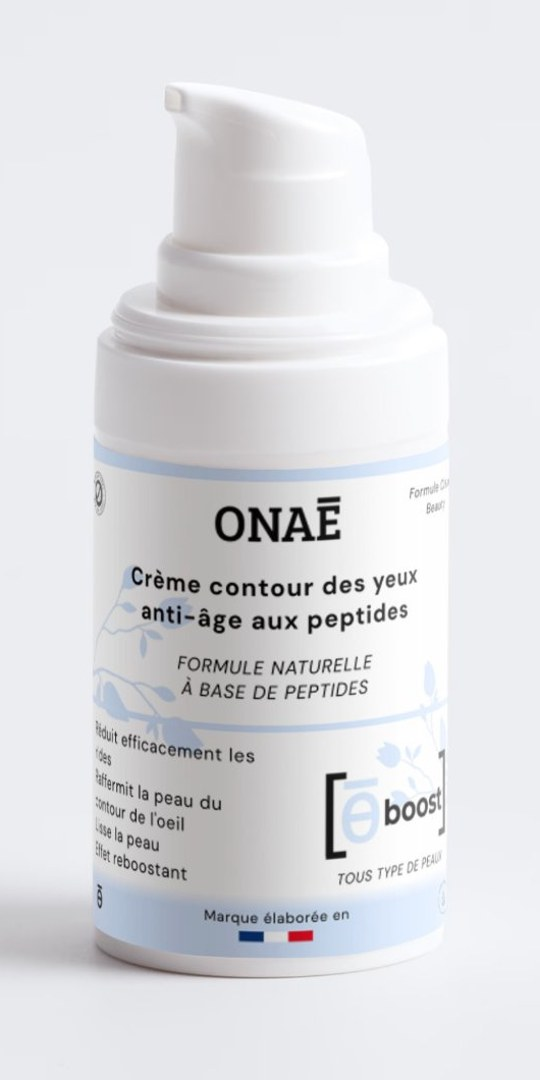
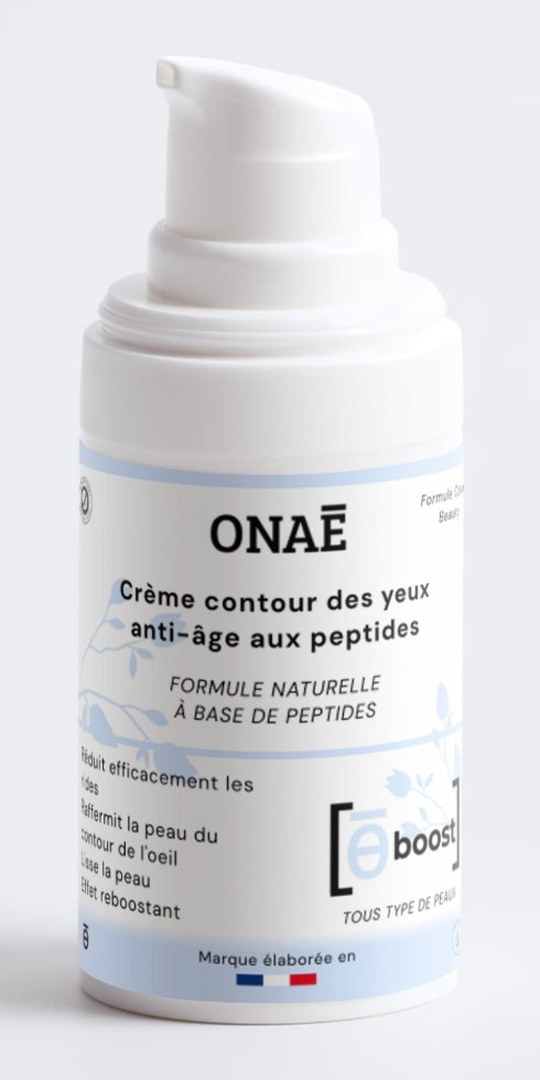
soins-yeux : flacon 3D refait d'après l'étiquette officielle
Étiquette reconstruite en vectoriel (texte net, droite), texture 4096 px,
pompe airless remodelée d'après la photo studio (bague striée, col, bec).

Claude-Session: https://claude.ai/code/session_014dCkmD5gAGJhmCfmpnVsfL

Changed region(s): [[0.0, 0.2444, 0.8593, 0.9472], [0.2667, 0.0611, 0.5333, 0.3361], [0.3852, 0.2139, 0.5333, 0.2444]]

diff --git a/pump3d.js b/pump3d.js
@@ -20,8 +20,10 @@ function initPump3D(canvas){
   const BODY_H = AIRLESS ? 3.68 : 3.236, BASE_H = 0.318;
   // airless : épaulement arrondi -> bague -> poussoir (mesures prises sur la photo, rayon du corps = 1)
   const SH_H = 0.26, COL_R = 0.667, COL_H = 0.253;
-  const COLLAR_Y0 = BODY_H, COLLAR_Y1 = AIRLESS ? BODY_H + SH_H + COL_H : 4.509, COLLAR_R0 = 0.647, COLLAR_R1 = 0.570;
-  const ACT_R = AIRLESS ? 0.575 : 0.50;
+  // airless (photo studio, rayon du corps = 1) : bague striée 0.06, col 0.30 (r 0.648), poussoir r 0.56 haut de 0.58 à 0.88
+  const NECK_R = 0.648, NECK_Y0 = BODY_H + 0.06, NECK_Y1 = BODY_H + 0.36;
+  const COLLAR_Y0 = BODY_H, COLLAR_Y1 = AIRLESS ? NECK_Y1 : 4.509, COLLAR_R0 = 0.647, COLLAR_R1 = 0.570;
+  const ACT_R = AIRLESS ? 0.56 : 0.50;
   const CENTER_Y = 2.5;
 
   const scene = new THREE.Scene();
@@ -126,8 +128,12 @@ function initPump3D(canvas){
     const lathe = (pts)=> new THREE.Mesh(new THREE.LatheGeometry(pts.map(([r,y])=> new THREE.Vector2(r, y)), SEG), whiteMat);
     bottle.add(lathe([[0.001,-0.07],[0.86,-0.07],[0.94,-0.06],[0.98,-0.04],[0.997,-0.015],[1,0]]));
     const Y = BODY_H;
-    bottle.add(lathe([[1,Y],[0.985,Y+0.012],[0.93,Y+0.016],[0.914,Y+0.03],[0.912,Y+0.06],[0.90,Y+0.11],[0.87,Y+0.16],[0.81,Y+0.21],[0.74,Y+0.24],[0.69,Y+0.255],[COL_R,Y+SH_H]]));
-    bottle.add(lathe([[COL_R,Y+SH_H],[COL_R,Y+SH_H+COL_H-0.02],[COL_R-0.015,Y+SH_H+COL_H],[ACT_R+0.01,Y+SH_H+COL_H],[ACT_R,Y+SH_H+COL_H+0.005]]));
+    // bord du corps arrondi, plateau, bague à deux stries, plateau intérieur
+    bottle.add(lathe([[1,Y-0.035],[0.997,Y-0.012],[0.988,Y-0.002],[0.972,Y],[0.925,Y],[0.921,Y+0.018],[0.916,Y+0.045],[0.906,Y+0.058],
+      [0.893,Y+0.06],[0.889,Y+0.052],[0.884,Y+0.052],[0.880,Y+0.06],[0.866,Y+0.06],[0.862,Y+0.052],[0.857,Y+0.052],[0.853,Y+0.06],
+      [0.835,Y+0.062],[0.80,Y+0.06],[0.70,Y+0.06],[NECK_R+0.01,Y+0.06],[NECK_R,Y+0.064]]));
+    // col du poussoir, arête supérieure adoucie, plateau jusqu'au poussoir
+    bottle.add(lathe([[NECK_R,NECK_Y0],[NECK_R,NECK_Y1-0.03],[NECK_R-0.006,NECK_Y1-0.008],[NECK_R-0.022,NECK_Y1],[ACT_R+0.012,NECK_Y1],[ACT_R,NECK_Y1+0.004]]));
   } else {
   // Thick clear glass base (photo strip)
   const base = new THREE.Mesh(new THREE.CylinderGeometry(1, 1, BASE_H, SEG, 1, true).translate(0, -BASE_H/2, 0), stripMat(tBase, -BASE_H, 0, true));
@@ -143,7 +149,7 @@ function initPump3D(canvas){
   const NOZ = (AIRLESS ? -90 : -51)*Math.PI/180;                       // nozzle direction measured on the photo
   const dn = new THREE.Vector2(Math.sin(NOZ), Math.cos(NOZ));   // (x, z)
   const pts = [];
-  const R = ACT_R, F = 0.13;
+  const R = ACT_R, F = AIRLESS ? 0.09 : 0.13;
   pts.push(new THREE.Vector2(R, 0));
   for(let i=0;i<=12;i++){ const a = i/12*Math.PI/2; pts.push(new THREE.Vector2(R - F + F*Math.cos(a), 1 - F + F*Math.sin(a))); }
   pts.push(new THREE.Vector2(0.001, 1));
@@ -152,15 +158,28 @@ function initPump3D(canvas){
   for(let i=0;i<p.count;i++){
     const x = p.getX(i), y = p.getY(i), z = p.getZ(i);
     const proj = (x*dn.x + z*dn.y)/R;                 // -1 .. 1 toward the nozzle
-    const top = AIRLESS ? 0.715 + 0.115*proj : 0.735 + 0.095*proj;                   // head height (0.64 back, 0.83 nozzle side)
+    const top = AIRLESS ? 0.73 + 0.15*proj : 0.735 + 0.095*proj;                   // head height (0.64 back, 0.83 nozzle side)
     const t = y;                                      // 0 bottom .. 1 top
     const ny = t*top;
-    const lean = (AIRLESS ? 0.05 : 0.085)*Math.pow(t, 2.6);
+    const lean = (AIRLESS ? 0.0 : 0.085)*Math.pow(t, 2.6);
     p.setXYZ(i, x + dn.x*lean, COLLAR_Y1 + ny, z + dn.y*lean);
   }
   actGeo.computeVertexNormals();
   bottle.add(new THREE.Mesh(actGeo, whiteMat));
 
+  if(AIRLESS){
+    // bec rectangulaire au point haut, face de sortie légèrement grisée (photo)
+    const ang = Math.atan2(dn.x, dn.y), topY = COLLAR_Y1 + 0.88;
+    const spout = new THREE.Group(); spout.rotation.y = ang; bottle.add(spout);
+    const box = new THREE.Mesh(new THREE.BoxGeometry(0.115, 0.115, 0.19), whiteMat);
+    box.position.set(0, topY - 0.068, R - 0.045); spout.add(box);
+    const face = new THREE.Mesh(new THREE.PlaneGeometry(0.096, 0.094),
+      new THREE.MeshBasicMaterial({color:0xddd7d0, polygonOffset:true, polygonOffsetFactor:-4}));
+    face.position.set(0, topY - 0.068, R - 0.045 + 0.0951); spout.add(face);
+    const slot = new THREE.Mesh(new THREE.PlaneGeometry(0.05, 0.026),
+      new THREE.MeshBasicMaterial({color:0xb9b1a9, polygonOffset:true, polygonOffsetFactor:-6}));
+    slot.position.set(0, topY - 0.07, R - 0.045 + 0.0953); spout.add(slot);
+  }
   // Nozzle orifice
   const hc = document.createElement('canvas'); hc.width = hc.height = 64;
   const hg = hc.getContext('2d'); const rg = hg.createRadialGradient(32,30,2,32,32,30);
@@ -173,7 +192,7 @@ function initPump3D(canvas){
   hole.position.copy(hp);
   hole.lookAt(hp.clone().add(new THREE.Vector3(dn.x, 0.18, dn.y)));
   hole.scale.set(1, 1.15, 1);
-  bottle.add(hole);
+  if(!AIRLESS) bottle.add(hole);
 
   // Soft contact shadow on the "table"
   const sc = document.createElement('canvas'); sc.width = 256; sc.height = 64;

diff --git a/soins-yeux.html b/soins-yeux.html
@@ -605,7 +605,7 @@ button{cursor:pointer;border:none;background:none;font-family:inherit}
       </div>
 
       <div class="r3-bottle" id="dropBottle">
-        <canvas id="drop3d" data-engine="pump" data-model="airless" data-tex="eyecr3d" data-mask="eyecr3d" data-v="1" aria-label="Crème contour des yeux anti-âge aux peptides Onaé en rotation 3D"></canvas>
+        <canvas id="drop3d" data-engine="pump" data-model="airless" data-tex="eyecr3d" data-mask="eyecr3d" data-v="2" aria-label="Crème contour des yeux anti-âge aux peptides Onaé en rotation 3D"></canvas>
         <img class="r3-fallback" src="eyecr3d-front.jpg" alt="Crème contour des yeux anti-âge aux peptides Onaé" hidden>
       </div>
 
@@ -973,7 +973,7 @@ function filterCards(btn, gamme) {
 </script>
 <script src="https://cdnjs.cloudflare.com/ajax/libs/three.js/r128/three.min.js"></script>
 <script src="drop3d.js?v=6"></script>
-<script src="pump3d.js?v=3"></script>
+<script src="pump3d.js?v=4"></script>
 <script>
 /* Soins yeux : même grille que Soins visage, générée depuis products.json */
 (function(){

diff --git a/index.html b/index.html
@@ -1034,7 +1034,7 @@ button{cursor:pointer;border:none;background:none;font-family:inherit}
 })();
 </script>
 <script src="https://cdnjs.cloudflare.com/ajax/libs/three.js/r128/three.min.js" defer></script>
-<script src="pump3d.js?v=3" defer></script>
+<script src="pump3d.js?v=4" defer></script>
 <table style="width:100%;border-collapse:collapse;font-size:13px;min-width:320px">
 <thead>
 <tr>
